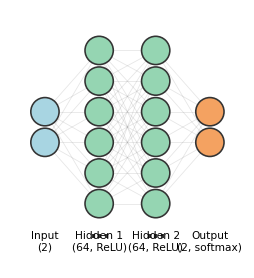
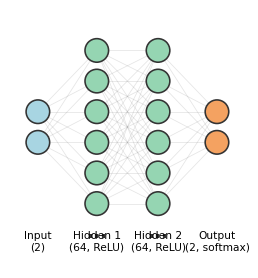
Built site for gh-pages

diff --git a/index.html b/index.html
@@ -205,7 +205,7 @@ window.Quarto = {
 
 <div class="quarto-listing quarto-listing-container-default" id="listing-listing">
 <div class="list quarto-listing-default">
-<div class="quarto-post image-right" data-index="0" data-categories="ai,deep learning,optimization,llm" data-listing-date-sort="1771718400000" data-listing-file-modified-sort="1772837427681" data-listing-date-modified-sort="NaN" data-listing-reading-time-sort="15" data-listing-word-count-sort="2926">
+<div class="quarto-post image-right" data-index="0" data-categories="ai,deep learning,optimization,llm" data-listing-date-sort="1771718400000" data-listing-file-modified-sort="1772860626430" data-listing-date-modified-sort="NaN" data-listing-reading-time-sort="16" data-listing-word-count-sort="3034">
 <div class="thumbnail">
 <p><a href="./posts/20260222-dl-optimizers-history/index.html" class="no-external"></a></p><a href="./posts/20260222-dl-optimizers-history/index.html" class="no-external">
 <p class="card-img-top"><img src="posts/20260222-dl-optimizers-history/index_files/figure-html/fig-spirals-data-output-1.png"  class="thumbnail-image card-img"/></p>
@@ -244,7 +244,7 @@ Feb 22, 2026
 </a>
 </div>
 </div>
-<div class="quarto-post image-right" data-index="1" data-categories="ai,mcp,architecture,security,deployment" data-listing-date-sort="1771459200000" data-listing-file-modified-sort="1772837427680" data-listing-date-modified-sort="NaN" data-listing-reading-time-sort="7" data-listing-word-count-sort="1289">
+<div class="quarto-post image-right" data-index="1" data-categories="ai,mcp,architecture,security,deployment" data-listing-date-sort="1771459200000" data-listing-file-modified-sort="1772860626429" data-listing-date-modified-sort="NaN" data-listing-reading-time-sort="7" data-listing-word-count-sort="1289">
 <div class="thumbnail">
 <p><a href="./posts/20260219-mcp-proprietary-data/index.html" class="no-external"></a></p><a href="./posts/20260219-mcp-proprietary-data/index.html" class="no-external">
 <div class="listing-item-img-placeholder card-img-top" >&nbsp;</div>
@@ -286,7 +286,7 @@ Feb 19, 2026
 </a>
 </div>
 </div>
-<div class="quarto-post image-right" data-index="2" data-categories="ai,data science,coding agents,nlp,llm" data-listing-date-sort="1761782400000" data-listing-file-modified-sort="1772837427680" data-listing-date-modified-sort="NaN" data-listing-reading-time-sort="10" data-listing-word-count-sort="1924">
+<div class="quarto-post image-right" data-index="2" data-categories="ai,data science,coding agents,nlp,llm" data-listing-date-sort="1761782400000" data-listing-file-modified-sort="1772860626428" data-listing-date-modified-sort="NaN" data-listing-reading-time-sort="10" data-listing-word-count-sort="1924">
 <div class="thumbnail">
 <p><a href="./posts/20251030-coding-agents-spooky/index.html" class="no-external"></a></p><a href="./posts/20251030-coding-agents-spooky/index.html" class="no-external">
 <div class="listing-item-img-placeholder card-img-top" >&nbsp;</div>
@@ -328,7 +328,7 @@ Oct 30, 2025
 </a>
 </div>
 </div>
-<div class="quarto-post image-right" data-index="3" data-categories="ai,llm,agentic,causal inference" data-listing-date-sort="1752278400000" data-listing-file-modified-sort="1772837427680" data-listing-date-modified-sort="NaN" data-listing-reading-time-sort="9" data-listing-word-count-sort="1713">
+<div class="quarto-post image-right" data-index="3" data-categories="ai,llm,agentic,causal inference" data-listing-date-sort="1752278400000" data-listing-file-modified-sort="1772860626428" data-listing-date-modified-sort="NaN" data-listing-reading-time-sort="9" data-listing-word-count-sort="1713">
 <div class="thumbnail">
 <p><a href="./posts/20250712-agentic-causal/index.html" class="no-external"></a></p><a href="./posts/20250712-agentic-causal/index.html" class="no-external">
 <p class="card-img-top"><img src="posts/20250712-agentic-causal/diagram_causal_agent.png"  class="thumbnail-image card-img"/></p>
@@ -367,7 +367,7 @@ Jul 12, 2025
 </a>
 </div>
 </div>
-<div class="quarto-post image-right" data-index="4" data-categories="generative ai,video generation,cost efficient training,scaling laws" data-listing-date-sort="1727827200000" data-listing-file-modified-sort="1772837427676" data-listing-date-modified-sort="NaN" data-listing-reading-time-sort="11" data-listing-word-count-sort="2088">
+<div class="quarto-post image-right" data-index="4" data-categories="generative ai,video generation,cost efficient training,scaling laws" data-listing-date-sort="1727827200000" data-listing-file-modified-sort="1772860626425" data-listing-date-modified-sort="NaN" data-listing-reading-time-sort="11" data-listing-word-count-sort="2088">
 <div class="thumbnail">
 <p><a href="./posts/20241002-minisora-part1/index.html" class="no-external"></a></p><a href="./posts/20241002-minisora-part1/index.html" class="no-external">
 <p class="card-img-top"><img src="posts/20241002-minisora-part1/green_and_red_arrow.png"  class="thumbnail-image card-img"/></p>
@@ -409,7 +409,7 @@ ZZ Si
 </a>
 </div>
 </div>
-<div class="quarto-post image-right" data-index="5" data-categories="computer vision,ai,sports,soccer" data-listing-date-sort="1726358400000" data-listing-file-modified-sort="1772837427620" data-listing-date-modified-sort="NaN" data-listing-reading-time-sort="8" data-listing-word-count-sort="1542">
+<div class="quarto-post image-right" data-index="5" data-categories="computer vision,ai,sports,soccer" data-listing-date-sort="1726358400000" data-listing-file-modified-sort="1772860626369" data-listing-date-modified-sort="NaN" data-listing-reading-time-sort="8" data-listing-word-count-sort="1542">
 <div class="thumbnail">
 <p><a href="./posts/20240915-soccer-tracking/index.html" class="no-external"></a></p><a href="./posts/20240915-soccer-tracking/index.html" class="no-external">
 <p class="card-img-top"><img src="posts/20240915-soccer-tracking/keypoint.png"  class="thumbnail-image card-img"/></p>
@@ -451,7 +451,7 @@ ZZ Si
 </a>
 </div>
 </div>
-<div class="quarto-post image-right" data-index="6" data-categories="economics,ai,environment" data-listing-date-sort="1724544000000" data-listing-file-modified-sort="1772837427562" data-listing-date-modified-sort="NaN" data-listing-reading-time-sort="8" data-listing-word-count-sort="1468">
+<div class="quarto-post image-right" data-index="6" data-categories="economics,ai,environment" data-listing-date-sort="1724544000000" data-listing-file-modified-sort="1772860626313" data-listing-date-modified-sort="NaN" data-listing-reading-time-sort="8" data-listing-word-count-sort="1468">
 <div class="thumbnail">
 <p><a href="./posts/20240825-sustainable-future/index.html" class="no-external"></a></p><a href="./posts/20240825-sustainable-future/index.html" class="no-external">
 <div class="listing-item-img-placeholder card-img-top" >&nbsp;</div>
@@ -490,7 +490,7 @@ ZZ Si
 </a>
 </div>
 </div>
-<div class="quarto-post image-right" data-index="7" data-categories="code,mlops,GCP,cloud" data-listing-date-sort="1690934400000" data-listing-file-modified-sort="1772837427560" data-listing-date-modified-sort="NaN" data-listing-reading-time-sort="9" data-listing-word-count-sort="1732">
+<div class="quarto-post image-right" data-index="7" data-categories="code,mlops,GCP,cloud" data-listing-date-sort="1690934400000" data-listing-file-modified-sort="1772860626311" data-listing-date-modified-sort="NaN" data-listing-reading-time-sort="9" data-listing-word-count-sort="1732">
 <div class="thumbnail">
 <p><a href="./posts/20230802-cloudrun-githubaction/index.html" class="no-external"></a></p><a href="./posts/20230802-cloudrun-githubaction/index.html" class="no-external">
 <div class="listing-item-img-placeholder card-img-top" >&nbsp;</div>

diff --git a/posts/20260222-dl-optimizers-history/index.html b/posts/20260222-dl-optimizers-history/index.html
@@ -250,7 +250,7 @@ Figure&nbsp;1: The two interleaved spirals dataset. Each class follows an Archim
 </div>
 </div>
 <p>The model is a small 2-layer neural network: 2 inputs, two hidden layers of 64 units with ReLU activations, and a 2-class softmax output (about 4,500 parameters total).</p>
-<div id="cell-fig-nn-arch" class="cell" data-fig-height="3" data-fig-width="8" data-execution_count="2">
+<div id="cell-fig-nn-arch" class="cell" data-fig-height="3" data-fig-width="10" data-execution_count="2">
 <div class="cell-output cell-output-display">
 <div id="fig-nn-arch" class="quarto-float quarto-figure quarto-figure-center anchored">
 <figure class="quarto-float quarto-float-fig figure">
@@ -278,7 +278,7 @@ Figure&nbsp;2: Architecture of the 2-layer network used for the spirals task.
 </figure>
 </div>
 <p>In this toy task, Adam converges faster. That’s not always the case; SGD + momentum with a well-tuned schedule often generalizes better, especially for convolutional architectures.</p>
-<p>Visualizations generated with <a href="https://github.com/logancyang/loss-landscape-anim">loss-landscape-anim</a>. <a href="../../examples/optimizer-bench/toy/README.md">Repro steps and code</a>.</p>
+<p><a href="https://github.com/zzsi/blog/tree/main/examples/optimizer-bench/toy">Repro steps and code</a>.</p>
 </section>
 <section id="s-to-2000s-foundations-that-never-went-away" class="level2">
 <h2 class="anchored" data-anchor-id="s-to-2000s-foundations-that-never-went-away">1960s to 2000s: foundations that never went away</h2>
@@ -290,10 +290,10 @@ Figure&nbsp;2: Architecture of the 2-layer network used for the spirals task.
 <p><span class="math display">\[
 v_{t+1} = \beta\, v_t + g_t,\qquad \theta_{t+1} = \theta_t - \eta\, v_{t+1}, \qquad v_0 = 0.
 \]</span></p>
-<p>Here <span class="math inline">\(\beta \in [0, 1)\)</span> controls how much history to keep. With <span class="math inline">\(\beta = 0\)</span> this reduces to plain gradient descent.</p>
+<p>Here <span class="math inline">\(\eta\)</span> is the learning rate (step size), and <span class="math inline">\(\beta \in [0, 1)\)</span> controls how much history to keep. With <span class="math inline">\(\beta = 0\)</span> this reduces to plain gradient descent.</p>
 <ul>
-<li>Nesterov acceleration improved on this by evaluating the gradient at a look-ahead position <span class="math inline">\(\theta_t - \eta\beta\, v_t\)</span> rather than at <span class="math inline">\(\theta_t\)</span> itself, effectively correcting for where momentum is already taking you (<a href="https://www.mathnet.ru/eng/dan/v269/i3/p543">Nesterov, 1983</a>).</li>
-<li>Natural gradient reframed descent in information geometry (<a href="https://doi.org/10.1162/089976698300017746">Amari, 1998</a>).</li>
+<li>Nesterov acceleration (<a href="https://www.mathnet.ru/eng/dan/v269/i3/p543">Nesterov, 1983</a>) observed that standard momentum commits to a direction before seeing the gradient there. The fix: compute the gradient at a look-ahead position <span class="math inline">\(\theta_t - \eta\beta\, v_t\)</span>, where momentum is already taking you, then correct course. In practice this means the optimizer “peeks ahead” before stepping, which reduces overshooting and improves convergence on smooth objectives. Nesterov momentum appears in many high-performing SGD recipes today.</li>
+<li>Natural gradient (<a href="https://doi.org/10.1162/089976698300017746">Amari, 1998</a>) addressed a different problem: standard gradient descent depends on how you parameterize the model. Amari proposed using the Fisher information matrix to define steepest descent in the space of distributions rather than the space of parameters. This makes the update invariant to reparameterization. The cost is prohibitive for large models (the Fisher is as expensive as the Hessian), but the idea directly inspired the scalable approximations K-FAC and Shampoo that appear later in this story.</li>
 </ul>
 <p>Momentum smoothed noisy gradients, Nesterov improved convergence speed, and natural gradient sought invariance to parameterization. Together they set the long-term agenda, and defined a tension that recurs throughout this story: conditioning quality versus operational cost.</p>
 </section>
